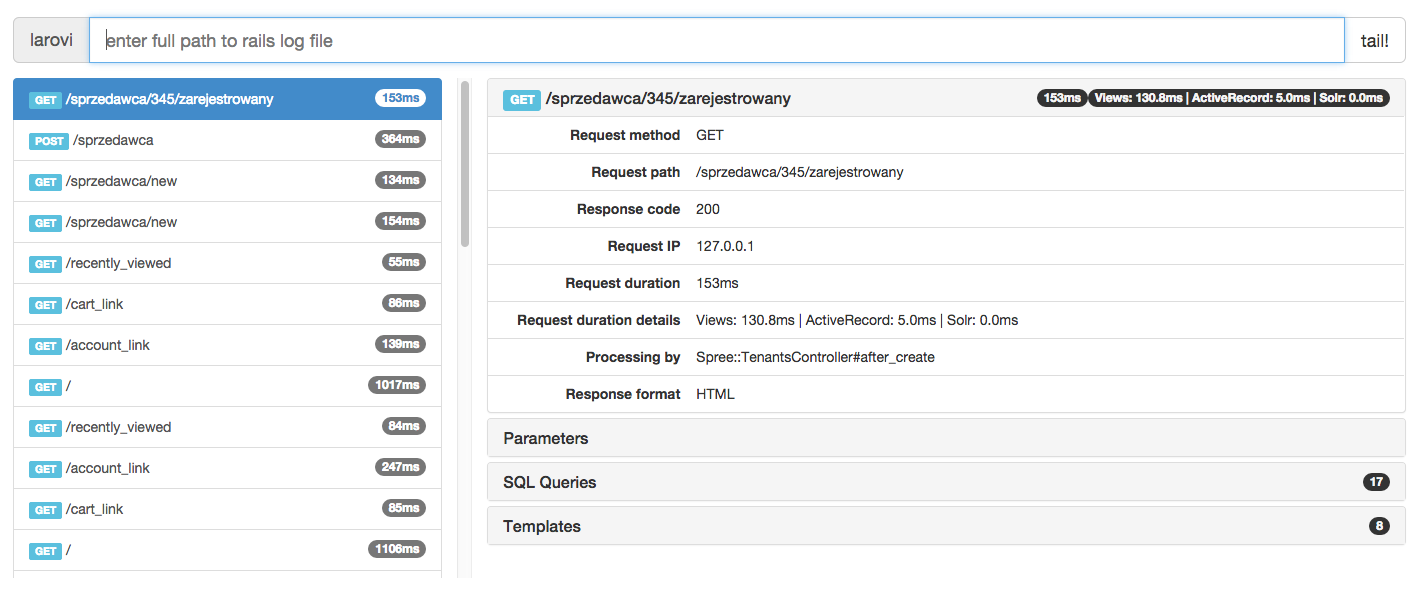
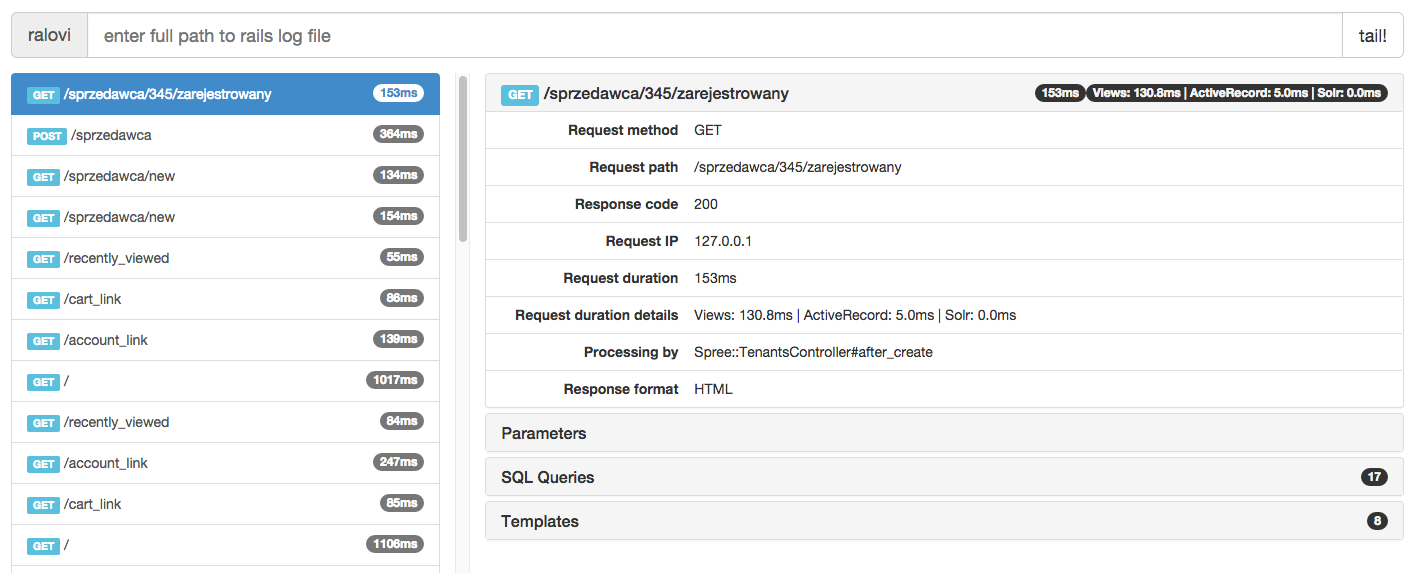
typo && cleanup

diff --git a/client/header/header.html b/client/header/header.html
@@ -1,6 +1,6 @@
 <template name="header">
   <div class="input-group input-group-lg">
-    <span class="input-group-addon">larovi</span>
+    <span class="input-group-addon">ralovi</span>
     <input id="filename" type="text" class="form-control" value="{{tailer}}" placeholder="enter full path to rails log file">
     <span class="input-group-btn">
       <button id="tail" class="btn btn-default" type="button">tail!</button>

diff --git a/client/request_datails/request_datails.html b/client/request_datails/request_datails.html
@@ -148,7 +148,7 @@
     </div>
   {{else}}
     <section class="jumbotron">
-        <h1>Welcome to larovi :)</h1>
+        <h1>Welcome to ralovi :)</h1>
         <p>Choose local file to tail, and select some parsed stuff!</p>
     </section>
   {{/if}}
